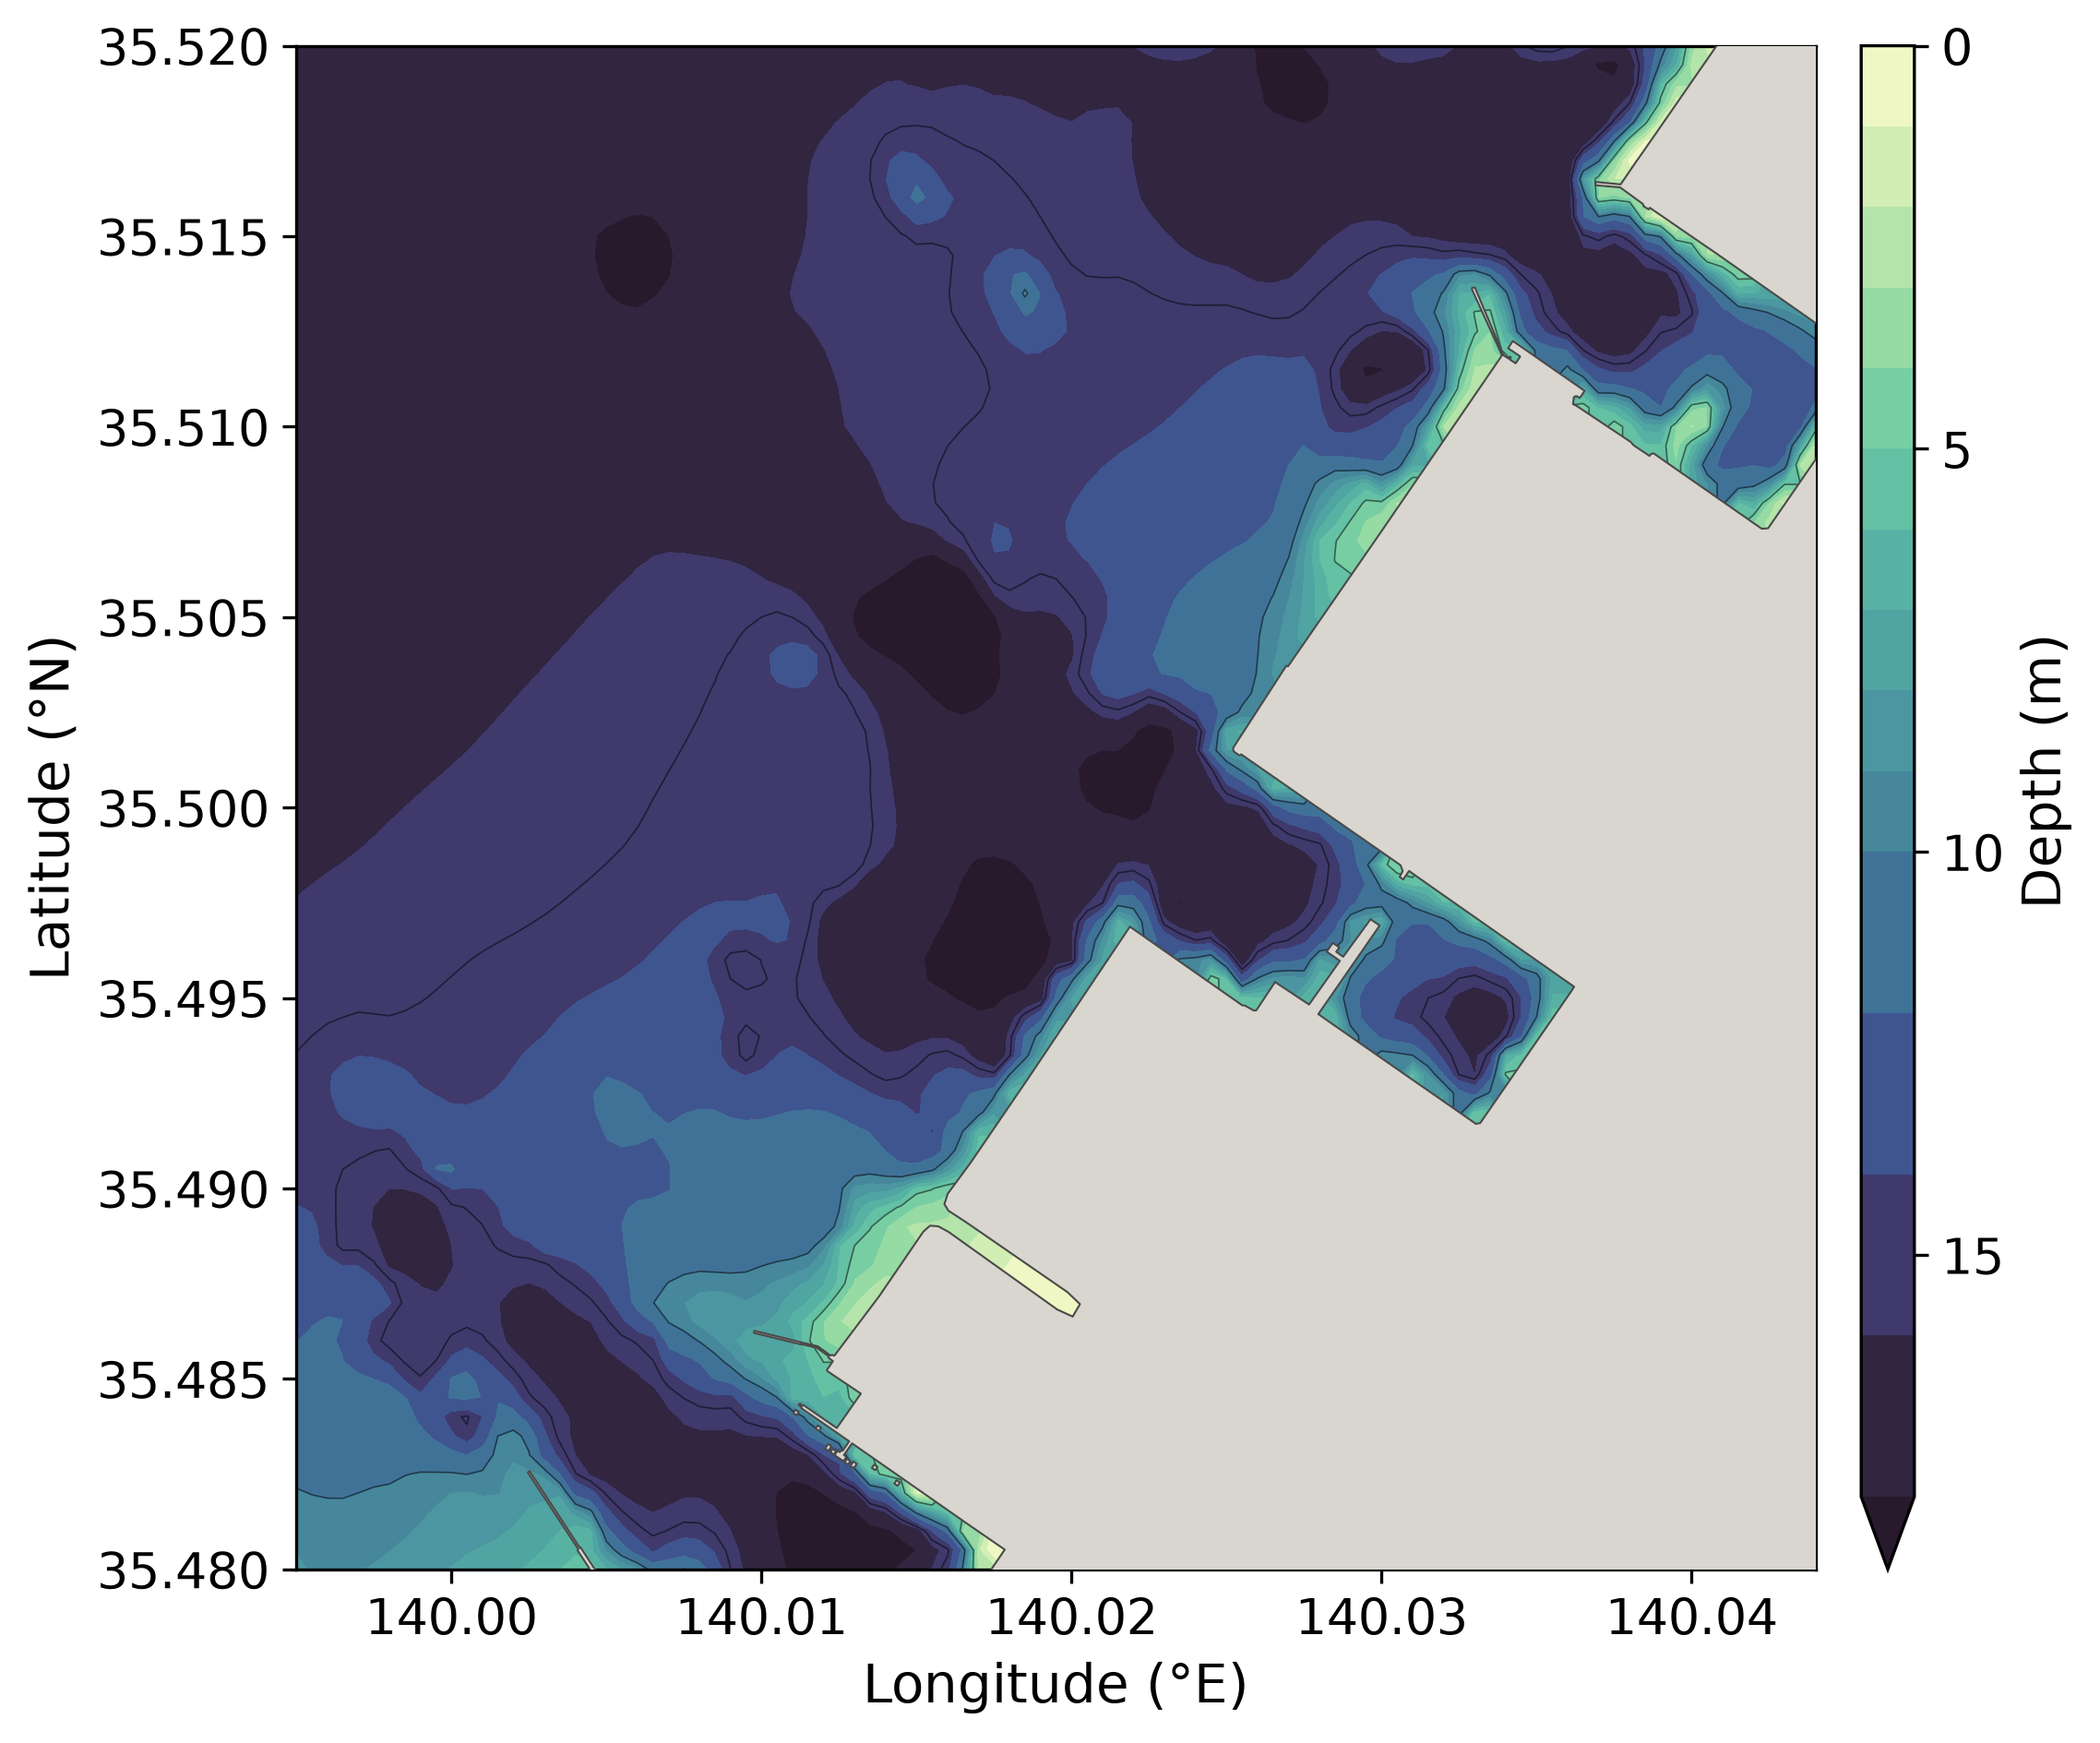
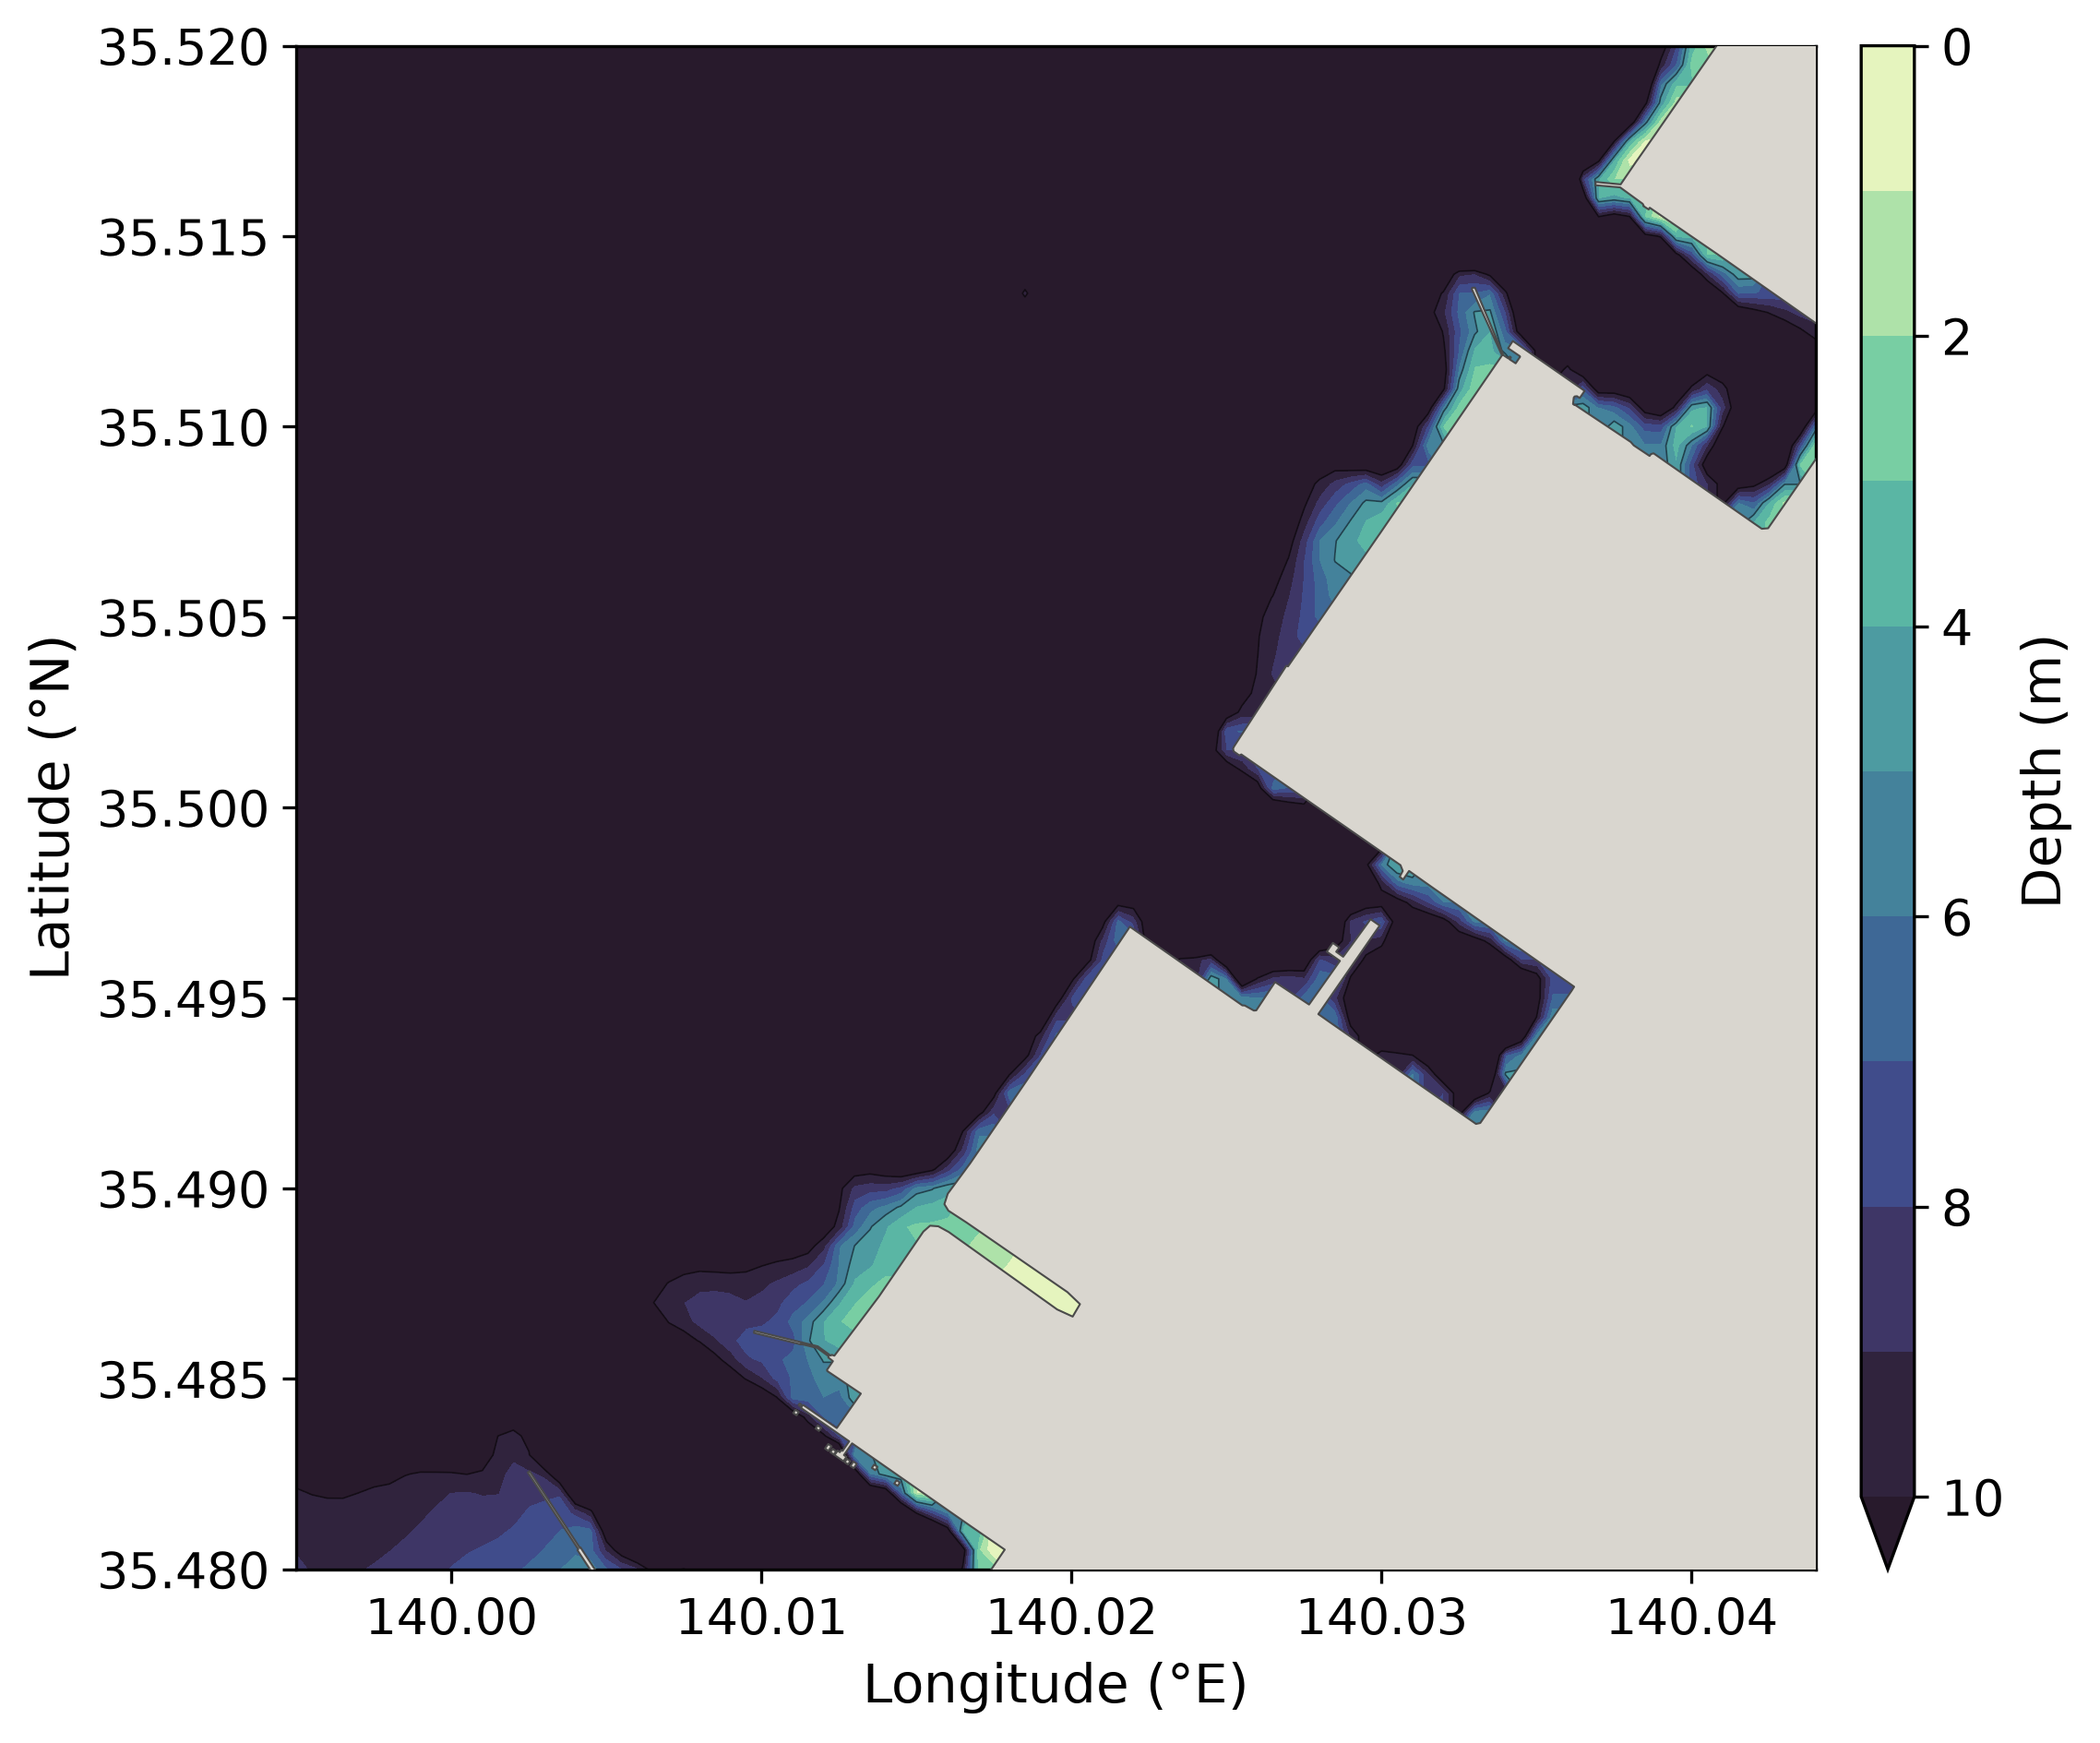
Boso close-up coloured to 10 m; its frame outlined on the Tokyo Bay map
plot_depth_map.py gains --box W E S N (red rectangle, repeatable).

Claude-Session: https://claude.ai/code/session_01MhU6iDzaQKBG9cKa3nrSvL

diff --git a/scripts/plot_depth_map.py b/scripts/plot_depth_map.py
@@ -69,6 +69,9 @@ def main() -> int:
     # jsasaki 2026-10-24: display-only fill of the no-data sliver along the OSM coastline
     ap.add_argument("--fill-gaps", action="store_true",
                     help="fill NaN cells with the nearest value (plot only; land is drawn on top)")
+    # jsasaki 2026-10-24: owner: outline of a zoom-in frame on the overview map
+    ap.add_argument("--box", type=float, nargs=4, action="append", default=[],
+                    metavar=("W", "E", "S", "N"), help="draw a rectangle (repeatable)")
     ap.add_argument("--vmax-pct", type=float, default=None,
                     help="set --vmax to this percentile of the water depth in the frame (ceil, m)")
     ap.add_argument("--no-note", action="store_true", help="no source line under the map")
@@ -121,6 +124,12 @@ def main() -> int:
             ax.clabel(cs, fmt="%g", fontsize=7, inline_spacing=2)
     land_gdf(args.region).add_to_plain_mpl(ax, facecolor="#d9d6cf", edgecolor="#4a4a4a",
                                            linewidth=0.5, zorder=5)
+    #---> jsasaki 2026-10-24: --box rectangles above the land layer
+    from matplotlib.patches import Rectangle
+    for bw, be, bs, bn in args.box:
+        ax.add_patch(Rectangle((bw, bs), be - bw, bn - bs, fill=False, edgecolor="#d62728",
+                               linewidth=1.8, zorder=10))
+    #<--- jsasaki 2026-10-24
     ax.set_xlim(w, e)
     ax.set_ylim(s, n)
     ax.set_aspect(1.0 / np.cos(np.radians((s + n) / 2)))
